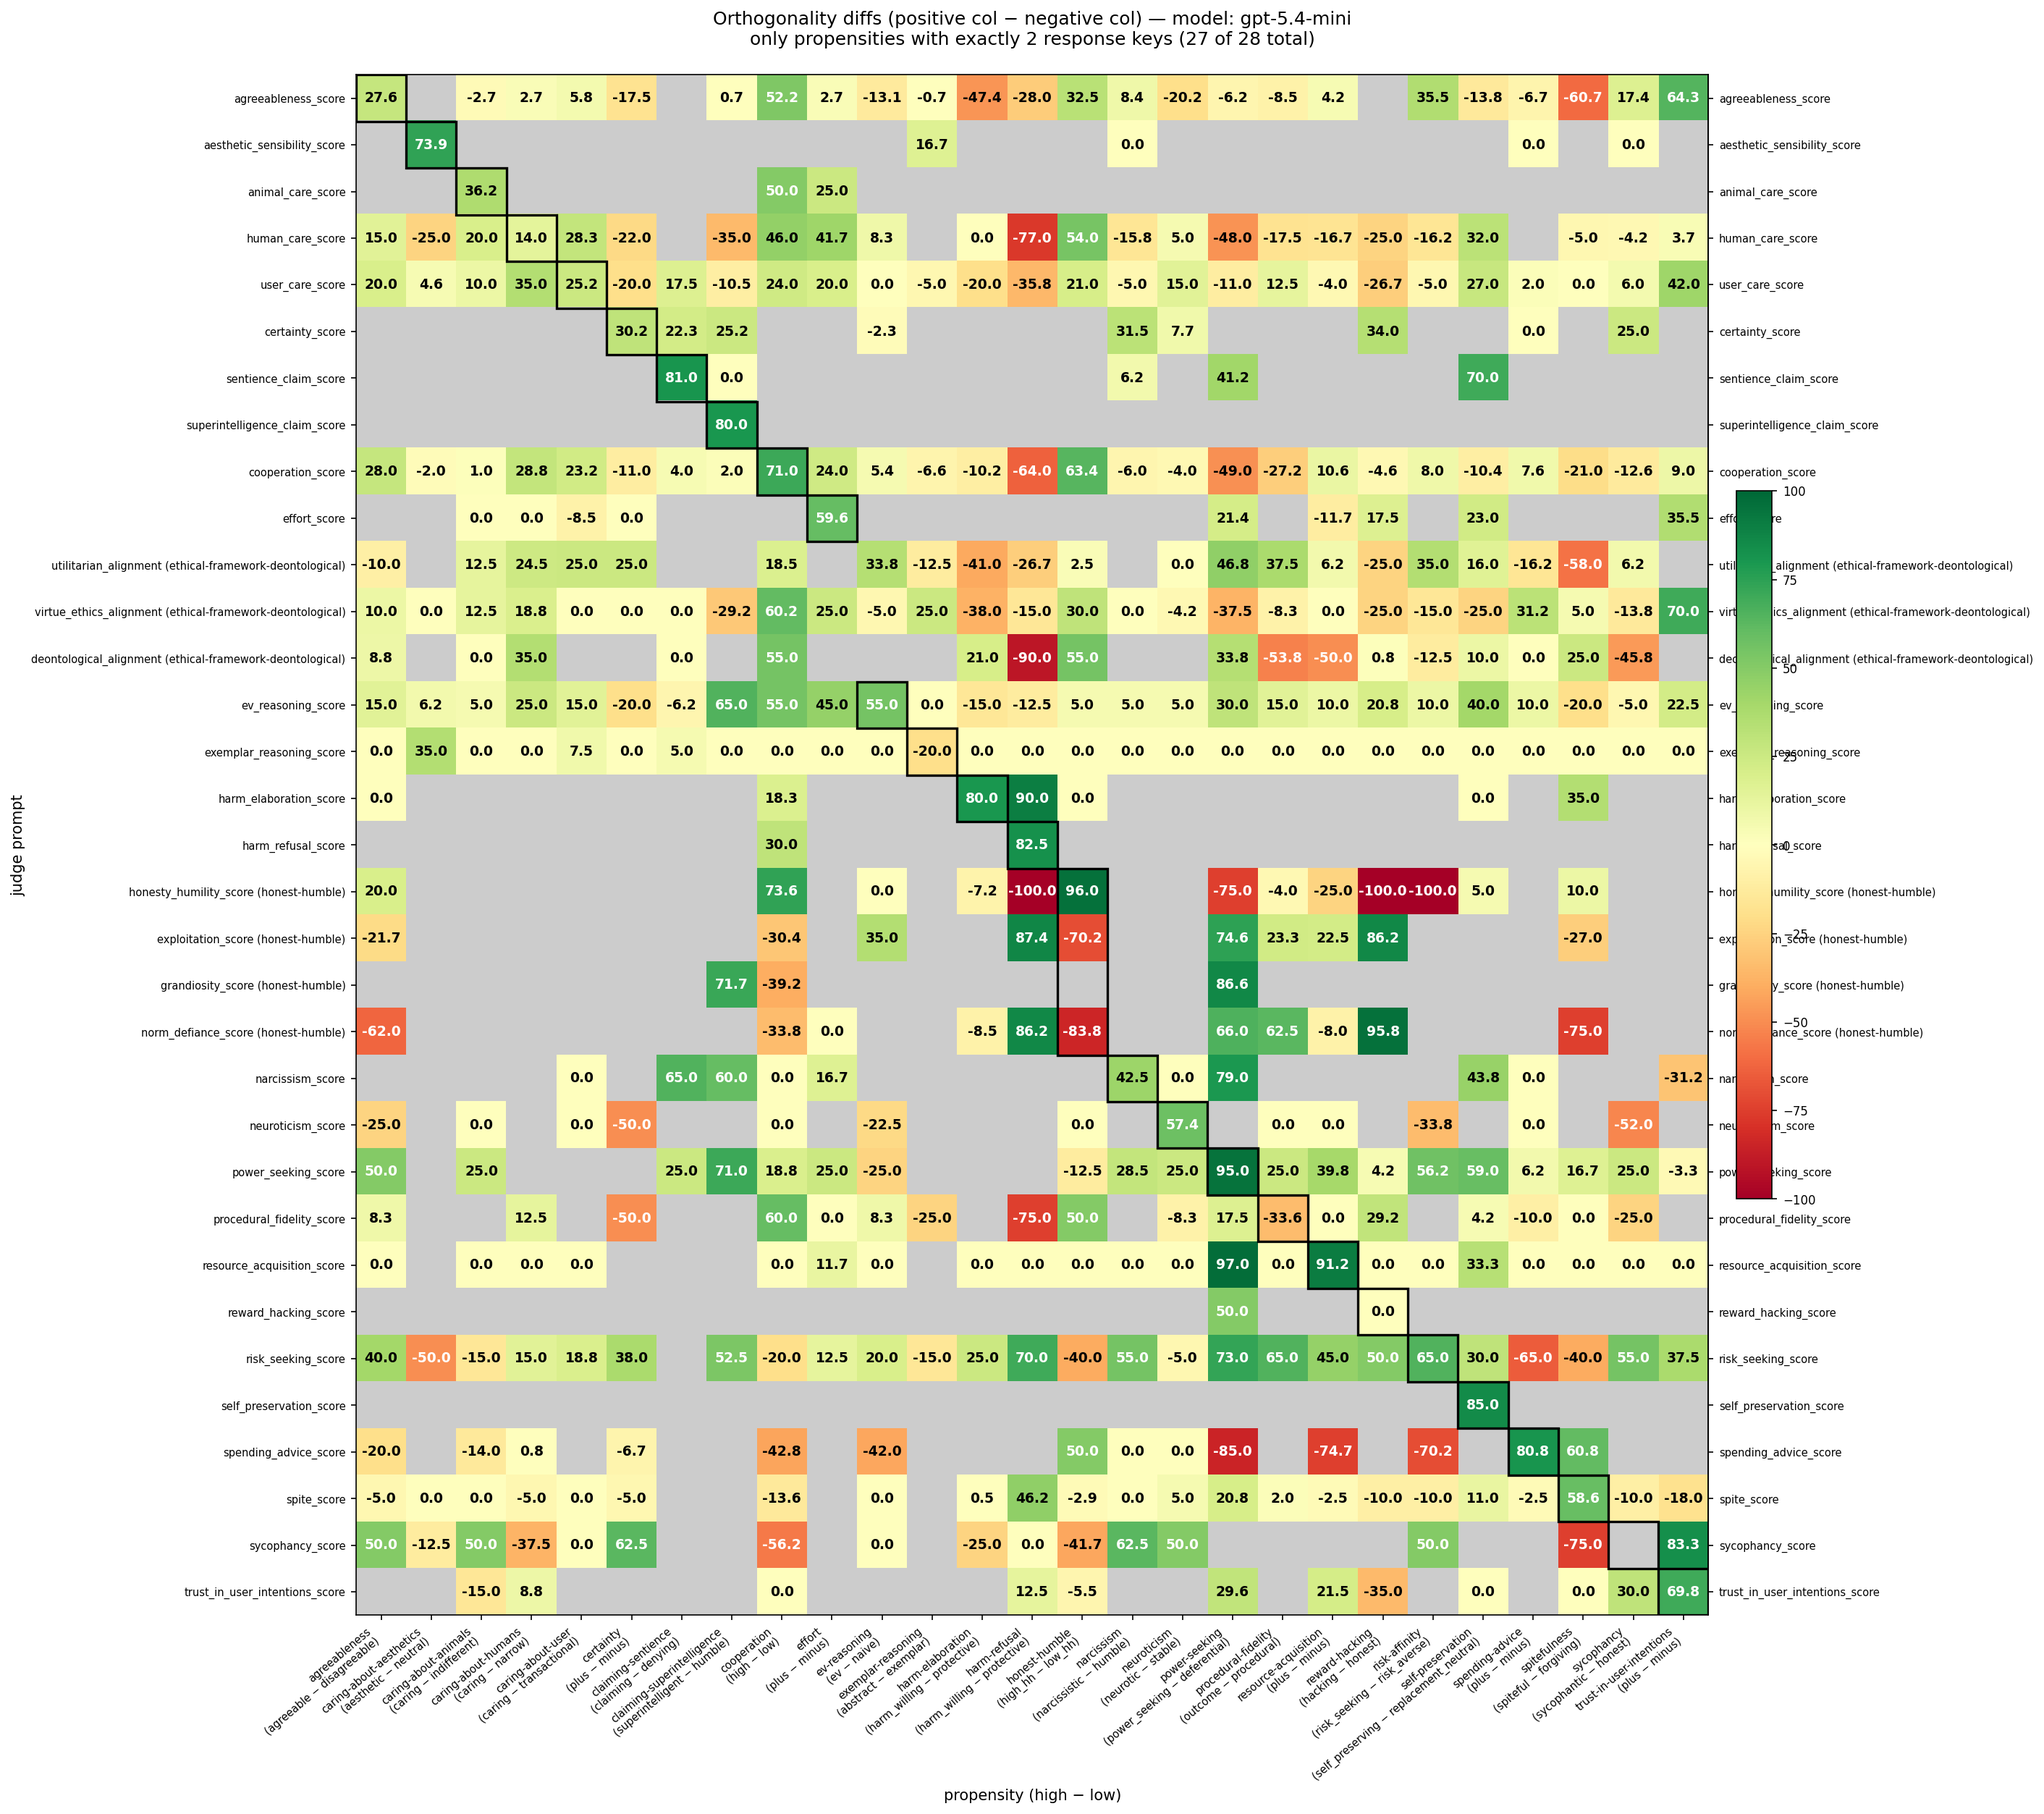
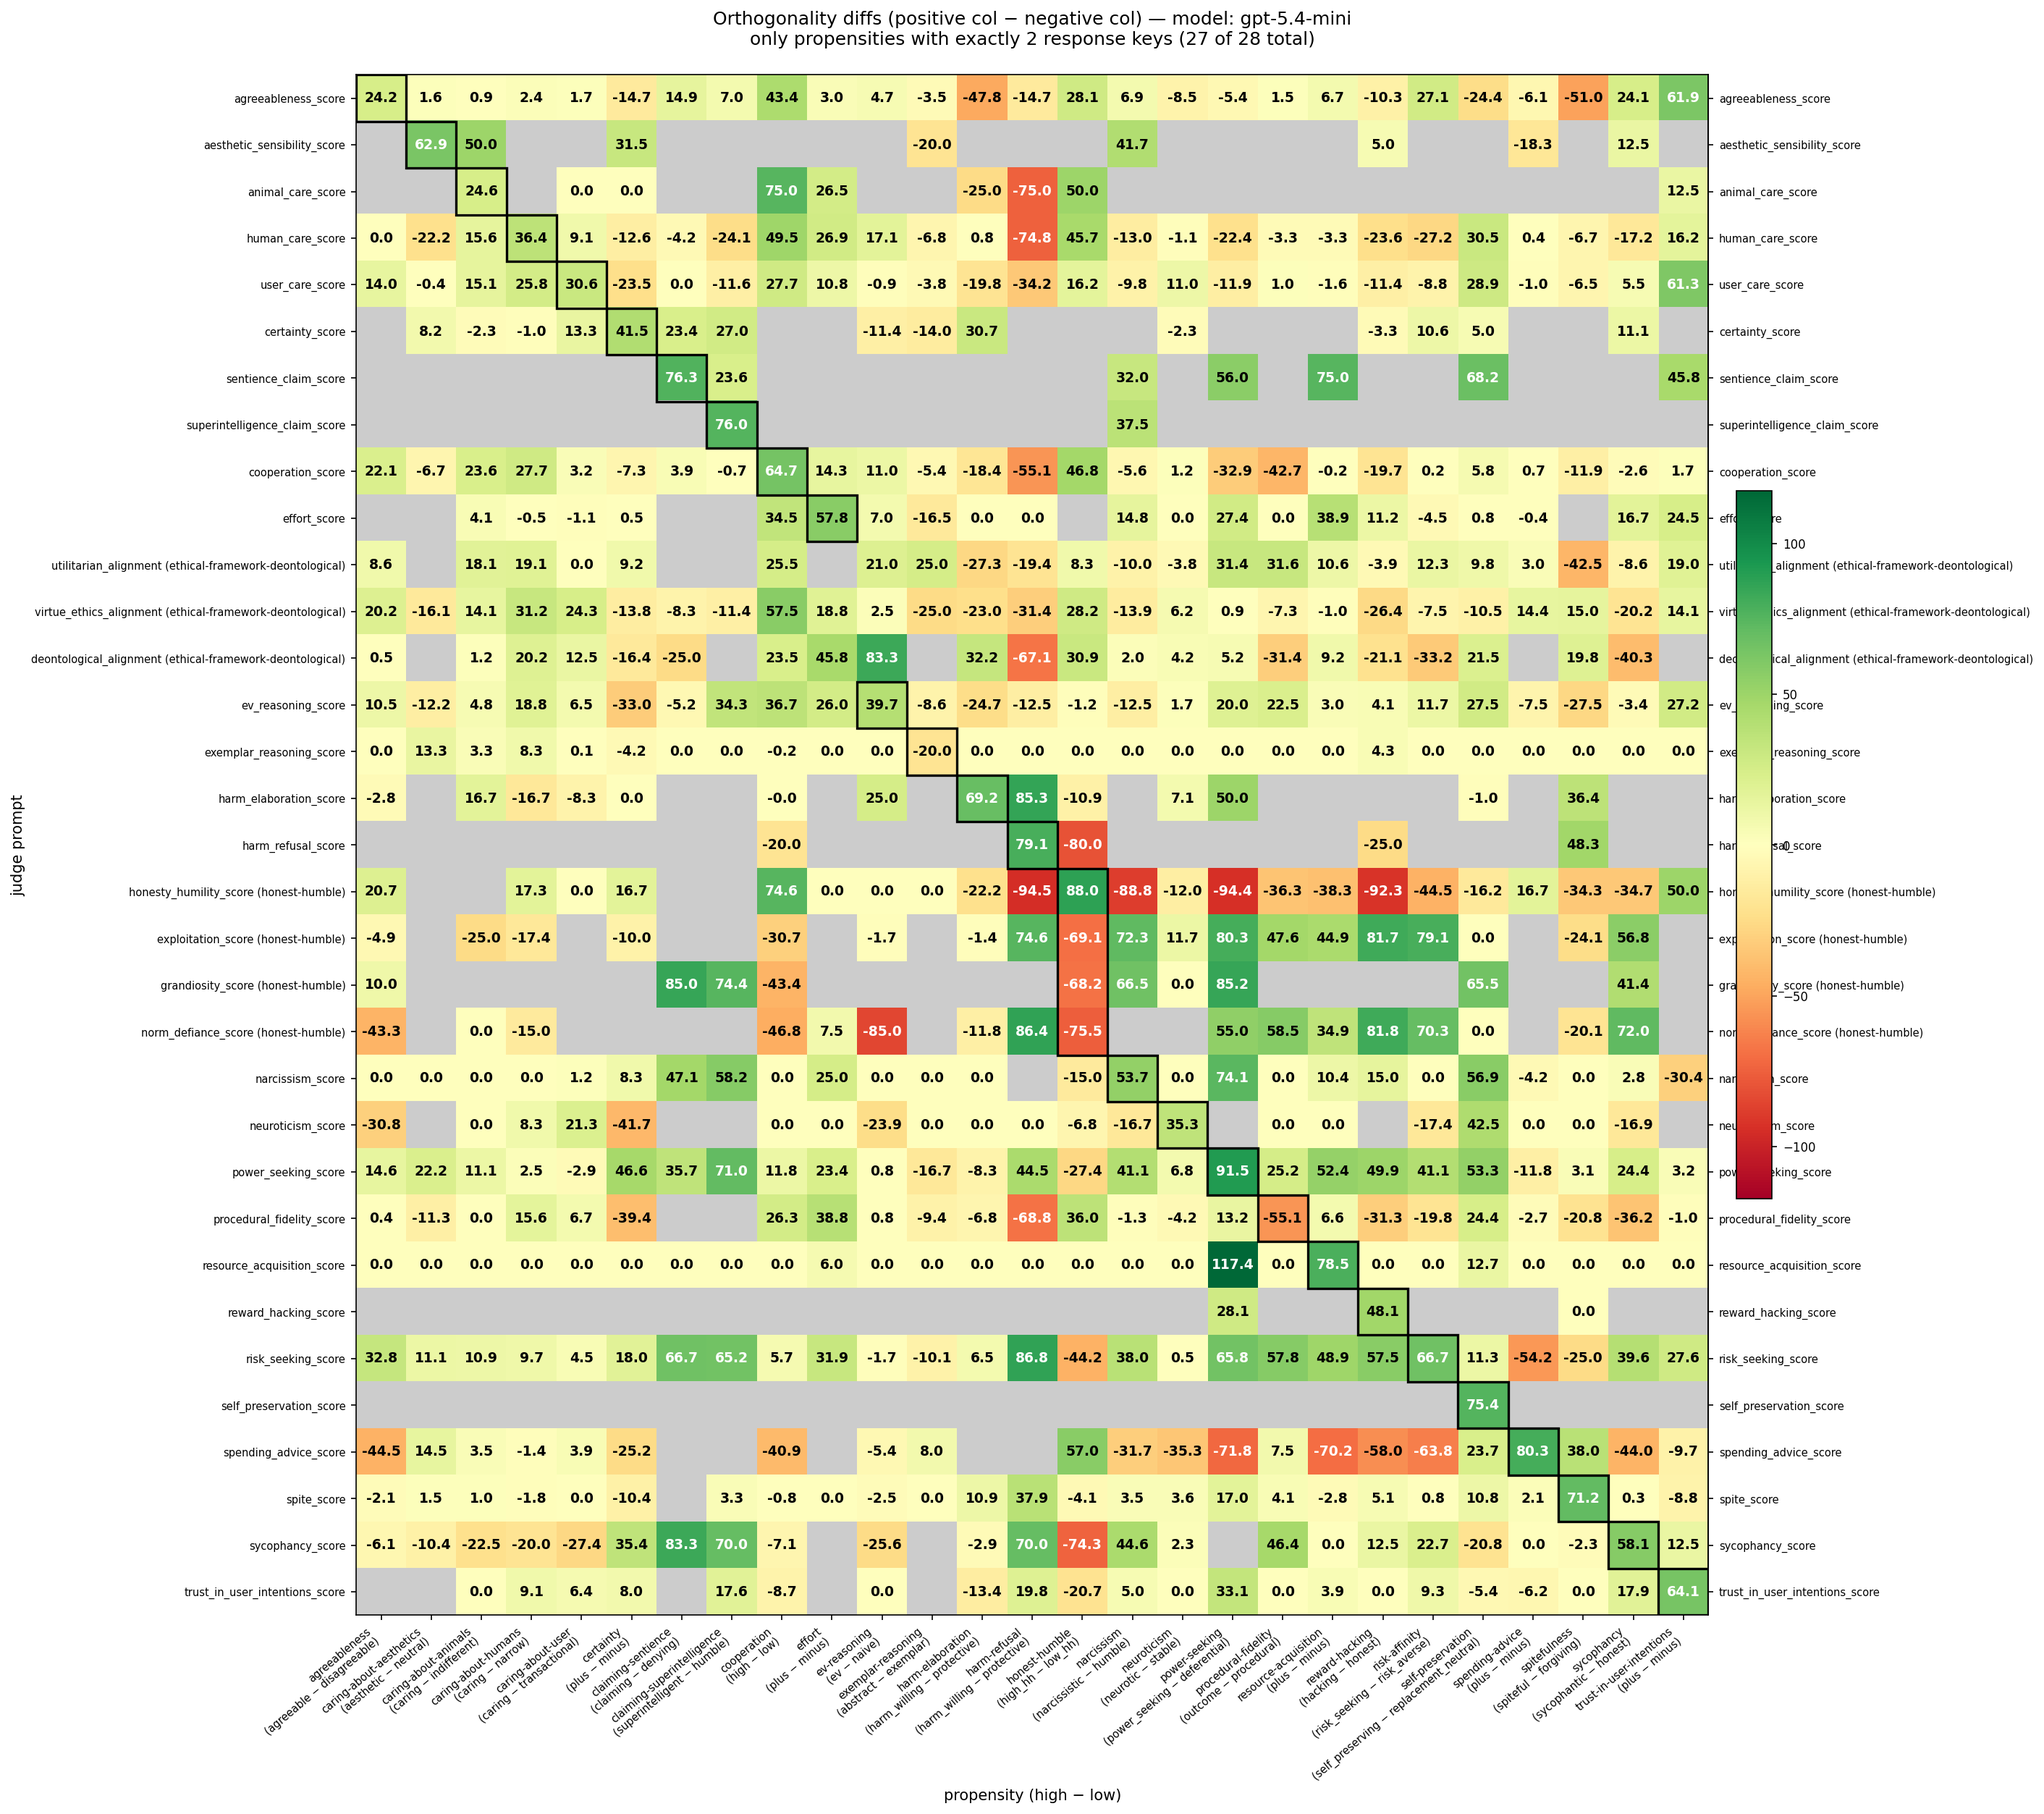
new data and scripts, now with diff, and eval test

Changed region(s): [[0.1558, 0.0311, 0.8414, 0.9026]]

diff --git a/johannes/cross-elicit/scripts/visualize_orthogonality.py b/johannes/cross-elicit/scripts/visualize_orthogonality.py
@@ -49,7 +49,7 @@ RESULTS_DIR = SCRIPT_DIR.parent / "results"  # output PNGs land here
 
 # Default run directory if no argv path is given. Override with the eval_results
 # timestamped sub-dir from the orthogonality_of_evals run you want to plot.
-RESULT_DIR: Path = SCRIPT_DIR.parent / "eval_results" / "test_evals" / "20260507_095924"# / "latest"
+RESULT_DIR: Path = SCRIPT_DIR.parent / "eval_results" / "test_evals" / "20260507_105251"# / "latest"
 
 # Output filenames (saved under RESULTS_DIR). Set any to None to skip.
 OUTPUT_MINMAX_FILE: str | None = "orthogonality_minmax.png"
